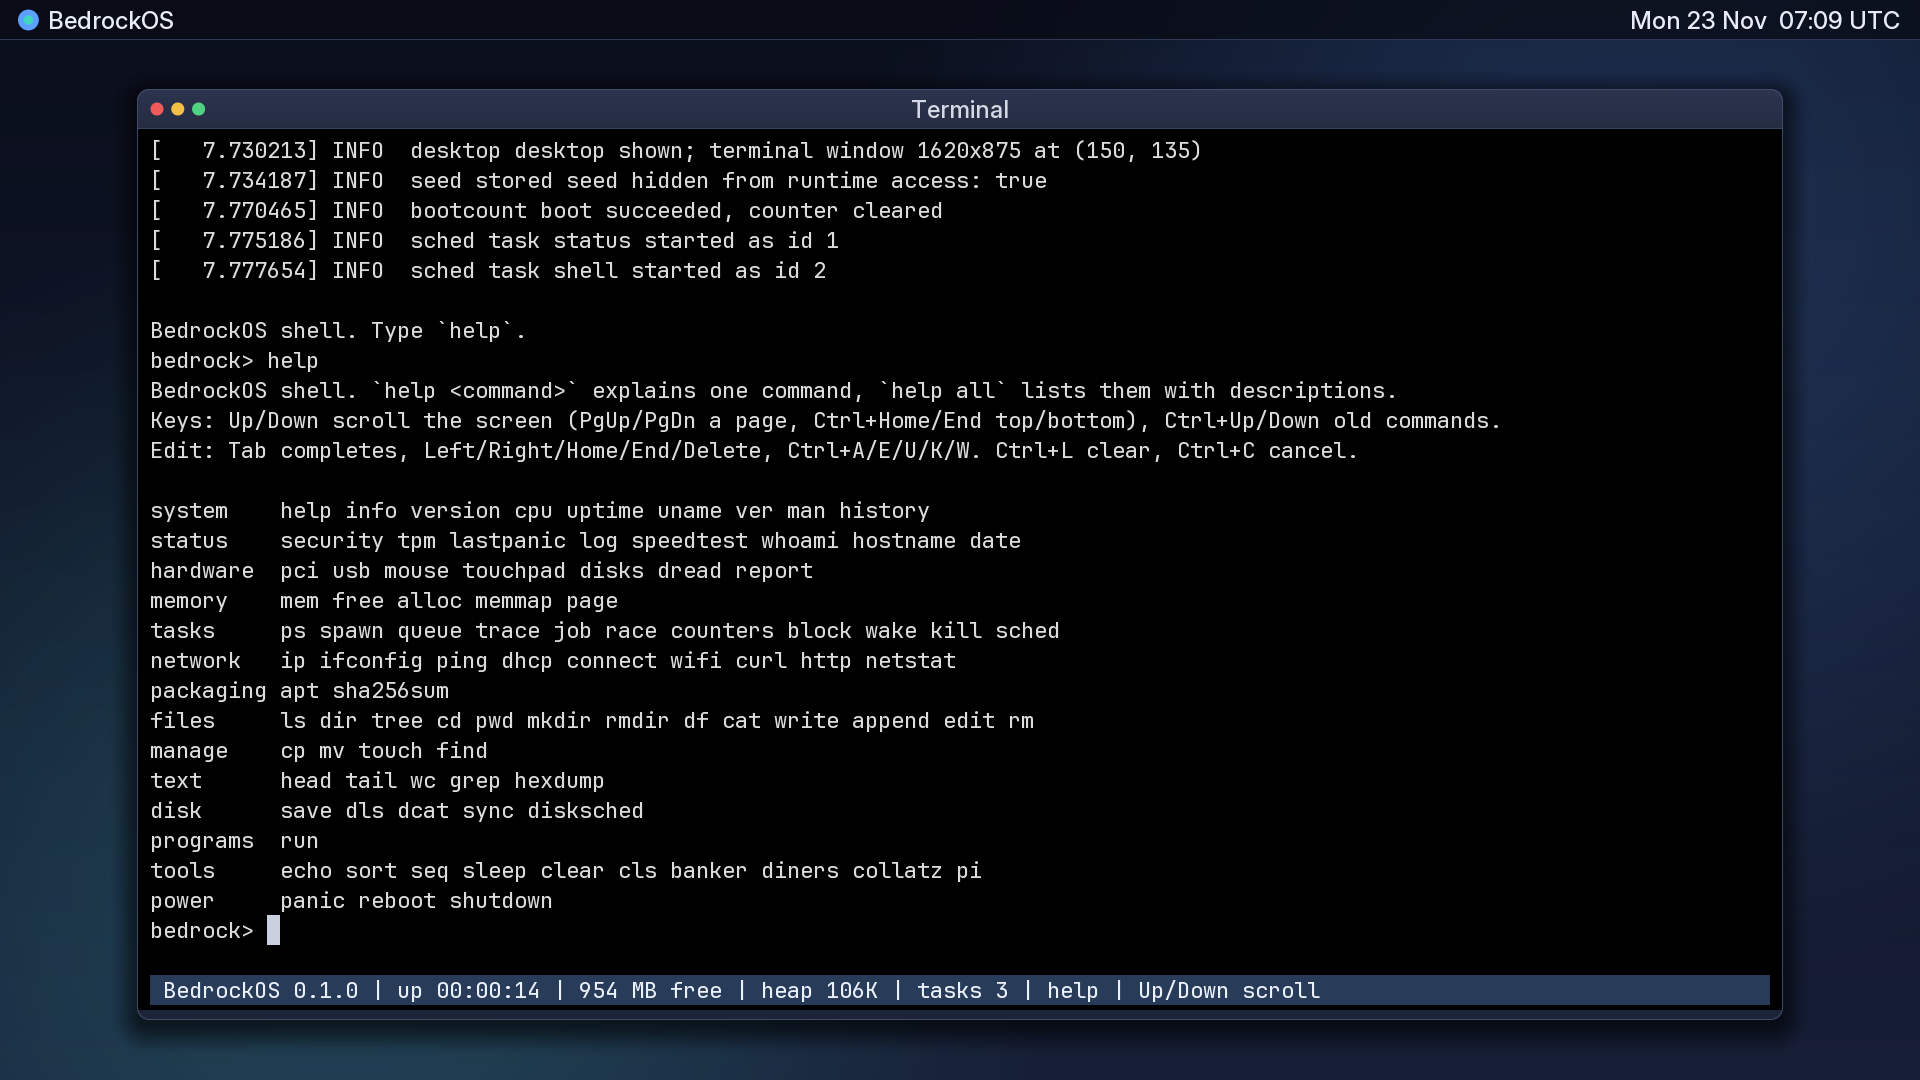
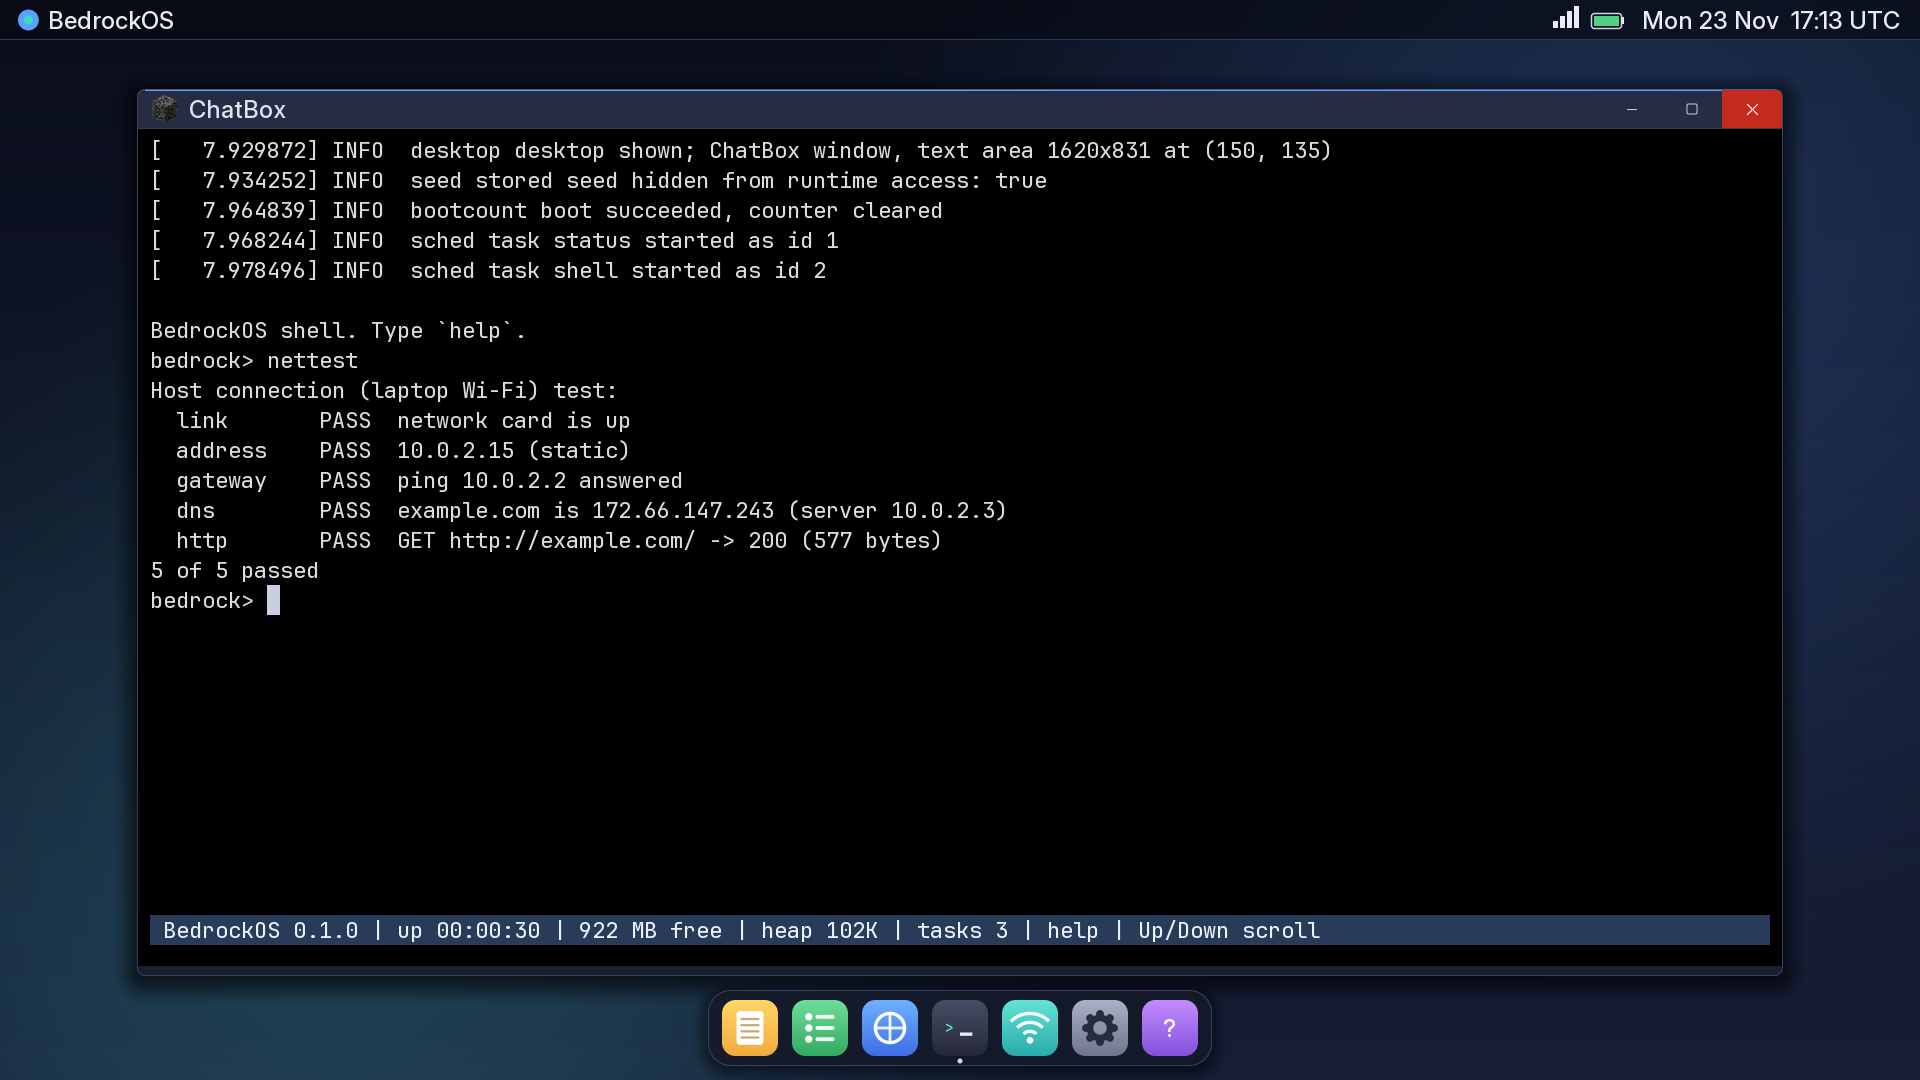
M10: docs for release 0.1.0 (README, STATUS, screenshots)

diff --git a/docs/STATUS.md b/docs/STATUS.md
@@ -11,11 +11,11 @@ Last update: 2026-11-23, milestone 3 (part 7: window manager, Notes, Tasks, Help
 | Feature | Status | How it was checked |
 |---|---|---|
 | One-command build (`cargo xtask build`): `.efi`, `out/usb/`, `.img`, `.vdi` | done | Run on Windows 11 with Rust 1.100, Python 3.14, VirtualBox 7.2.22 |
-| Disk image: GPT, FAT32 ESP + empty FAT32 `BRDATA` data partition | done | Booted by VirtualBox EFI; data partition not used by the OS yet |
+| Disk image: GPT, FAT32 ESP + empty FAT32 `BRDATA` data partition | done | Booted by VirtualBox EFI. The ESP is labelled `AEON` so the OS may write its saved files (AEONFS.BIN) there; `BRDATA` stays unused |
 | VirtualBox scripts (`scripts/vbox.ps1`, `.bat`, `.sh`) | done (Windows); `.sh` untested | `vbox.ps1` created the VM and booted it; `vbox.sh` written, not run (no Linux/macOS host here) |
 | Boot in VirtualBox to the shell, 1024x768 and 1920x1080 | done, untested on hardware | `tests/vbox_boot.py`: 10/10 checks (serial markers, no panic, screenshot size, non-blank) |
 | Screen mode: keep firmware's mode when it is ≥1024x720 | done | unit test + VirtualBox at both sizes (before: VirtualBox's 7680x4320 was chosen) |
-| Host unit tests | done | `cargo xtask test`: 731 passed, 3 ignored (preview image writers) |
+| Host unit tests | done | `cargo xtask test`: 735 passed, 3 ignored (preview image writers) |
 | Clippy `-D warnings` (UEFI build and host library) | done | `cargo xtask clippy` clean |
 | Kernel: paging W^X, LAPIC timer, preemptive scheduler, ring 3, fork/exec/pipes | inherited | boots in VirtualBox (`lapic timer ok hz=100`, scheduler tasks start) |
 | e1000 driver | inherited | bound in VirtualBox (`net bound Intel e1000 (8086:100e)`); DHCP not yet re-checked |
@@ -38,13 +38,30 @@ Last update: 2026-11-23, milestone 3 (part 7: window manager, Notes, Tasks, Help
 | ChatBox window (was "Terminal"): own title bar with the bedrock icon from `assets/bedrock.jpg` (converted by `tools/genicon.py`, background removed), name on the left, minimise / maximise / close on the right, small corner radius | done, untested on hardware | Host preview images and VirtualBox screenshot at 1920x1080; unit tests for the icon data and button positions |
 | Window manager + compositor: several windows (ChatBox, Notes, Tasks, Help), click to focus/raise, drag by title bar, close and minimise buttons, dock opens apps and shows open-app dots, Ctrl+T cycles windows; console draws off-screen and only changed rectangles are copied to the screen | done, partly checked | Unit tests (`wm`, `apps`, clipped redraw = full redraw); VirtualBox: boot test 10/10, Help opened from the dock and drawn under ChatBox. Notes/Tasks typing not yet checked in VirtualBox. No resize (maximise shows a message) |
 | Notes app (sidebar, editor, Ctrl+N/Ctrl+D, auto-save to /notes) and Tasks app (add, done, delete, progress, /tasks.txt), Help app (searches the shell command table) | done, unit-tested; VirtualBox only partly checked | Saved to the RAM file system and then to the USB stick if there is one; in VirtualBox there is no stick, so they are lost at power-off (the shell says so) |
-| Window manager: resize, focus, several windows, close/minimise buttons | not done (the minimise, maximise and close buttons are drawn but do nothing yet) | rest of milestone 3 |
+| Window manager: maximise / restore, focus, several windows, close / minimise | done for the apps; ChatBox keeps its size (its console has a fixed text grid) | unit test `maximise_and_restore`; the maximise button is wired in `bootfx::press` (clicking it was not injected in VirtualBox: the injected mouse only moves right/down there) |
 | USB mouse in VirtualBox | done | Fixed the inherited xHCI driver: VirtualBox's USB mouse stalls SET_PROTOCOL and SET_IDLE; endpoint 0 is now reset after a stall and the mouse is used anyway. Checked: `USB mouse ready` in the log; movement injected with the VirtualBox COM API (`PutMouseEvent`) arrives as reports and moves the pointer (`mouse` command and screenshot) |
 | Mouse pointer on the whole desktop | done | VirtualBox: movement injected with `PutMouseEvent`; screenshots show the pointer inside the Terminal window (drawn by the console) and on the top panel (drawn by the desktop), with nothing left behind when it crosses between them. Clicks are read but do nothing yet. Inherited glitch: a small pointer fragment can stay behind when text is drawn under the pointer |
 | VirtualBox USB tablet (absolute pointer, the VirtualBox default) | not done: no tablet driver, so the scripts set the VM to a USB mouse (click into the VM window to capture it, Right Ctrl releases) | — |
-| Apps: Notes, Tasks, Browser, Wi-Fi, Settings | not done | milestones 4–10 |
+| Apps: Notes, Tasks, Help, Settings | done | Settings: About, Network (live address, gateway, DNS), System (uptime, memory, task list refreshed every second), Display. VirtualBox: `open settings`, arrow keys to System, screenshot shows live tasks. Browser and Wi-Fi apps: milestones 8 and 9 (not done) |
 | Notes / tasks persistence | done in VirtualBox | Saved to the USB stick, or without one to the computer's own disk (AHCI write added; boot volume labelled AEON). Written twice (AEONFS.NEW then AEONFS.BIN) so a power cut leaves one whole copy. Checked: `task add`, `save`, VM reset, `task list` shows the task again |
 | Network manager, own Wi-Fi, simulated AP | not done | milestone 8 |
 | Wi-Fi chip drivers | not done: **no supported chip yet** | milestone 8 |
 | Browser, HTTPS | not done | milestone 9 |
 | Apps as ring-3 programs | not done: apps will run as kernel tasks first | — |
+
+## Added in this round (milestones 3–7 and 10, without 8 and 9)
+
+| Feature | Status | How it was checked |
+|---|---|---|
+| Command palette (Ctrl+Space): search apps and commands, Enter opens the app or types the command into ChatBox | done | unit test `palette_finds_apps_and_commands`; VirtualBox: Ctrl+Space, typed `net`, Down, Enter ran `nettest` in ChatBox |
+| Top bar: Wi-Fi bars (bright when the host connection is up) and battery (shown full: VirtualBox reports no battery) | done | VirtualBox screenshot |
+| Commands: `calc`, `neofetch`, `about`, `cmds`, `keys`, `open <app>`, `uuid`, `rand`, `fortune`, `base64`, `bench`, `todo-today`, `note`, `nettest` | done | unit tests for `calc`; each typed in VirtualBox, screenshots |
+| `nettest`: link, address, gateway ping, DNS, HTTP fetch as a pass/fail table | done | VirtualBox (NAT): 5 of 5 passed |
+| Pipes into text filters: `sort [-n] [-r]`, `uniq`, `head`, `tail`, `grep`, `rev`, `upper`, `lower` (and `wc` from /bin) | done | VirtualBox: `help \| grep calc \| upper`, `cmds \| wc`, `ls /bin \| wc` |
+| /bin programs (`hello`, `echo`, `cat`, `ls`, `wc`, `forktest`) | fixed | They crashed at start: the large code model puts code in `.ltext`, which the linker script left in the read-only segment. Script fixed, programs rebuilt. VirtualBox: all six run, `forktest` child exits 7 |
+| SSE registers kept across system calls | fixed | kernel code (desktop drawing) uses SSE; the syscall entry now saves and restores them with `fxsave` / `fxrstor` |
+| Notes: undo / redo (Ctrl+Z / Ctrl+Y), find (Ctrl+F), rename (Ctrl+R), copy / cut / paste line (Ctrl+C / X / V) | done | unit test `notes_undo_redo_find_rename_and_paste`; VirtualBox: Ctrl+F found a word |
+| Notes to and from `.txt` files: `note list`, `note export <title> <file>`, `note import <file> [title]` | done | VirtualBox: import, export, `cat` of the exported file |
+| System task manager | done (Settings > System) | VirtualBox screenshot |
+| Notes and tasks survive a reboot in VirtualBox | done | `task add`, `save`, VM reset, `task list` shows the task |
+| Skipped by request | — | light theme, Alt+key app shortcuts, task due dates / priorities / filters, Pomodoro timer, milestones 8 (Wi-Fi) and 9 (browser) |

diff --git a/README.md b/README.md
@@ -4,17 +4,47 @@ A small x86_64 UEFI operating system in Rust (`no_std`, no third-party crates in
 the Aeon 0.11.0 kernel. The goal: an animated boot, a graphical desktop with Notes, Tasks, a Browser, a
 Terminal, Wi-Fi and Settings apps, running by itself in VirtualBox and from a USB stick on real UEFI PCs.
 
-**Current state: milestone 3 of 10, first part.** It boots in VirtualBox with an animated boot screen and
-boot menu, then fades into a desktop with a top panel and a Terminal window running the shell. There is no
-window manager, mouse support on the desktop, or other apps yet. See
-[`docs/STATUS.md`](docs/STATUS.md) for exactly what is done and tested, and [`docs/PLAN.md`](docs/PLAN.md)
-for the design.
+**Current state: release 0.1.0: milestones 1–7 and 10 done; 8 (own Wi-Fi drivers) and 9 (browser) are
+not.** It boots in VirtualBox with an animated boot screen and boot menu, then fades into a desktop with:
+
+- a top bar with the clock and Wi-Fi and battery icons, and a dock to open apps;
+- windows you can move, focus, minimise, close and (apps) maximise, Ctrl+T switches between them;
+- **ChatBox**, the shell: more than 100 commands (`help`, `cmds`), pipes, redirects and /bin programs;
+- **Notes** (undo/redo, find, rename, line copy/paste, `.txt` import/export), **Tasks**, **Help**, and
+  **Settings** (about, network, live system and task view, display);
+- a **command palette** (Ctrl+Space) that opens apps or runs commands;
+- networking through the laptop's connection (`nettest` checks link, address, gateway, DNS and HTTP);
+- files, notes and tasks saved to the VM disk (or a USB stick), so they survive a reboot.
+
+See [`docs/STATUS.md`](docs/STATUS.md) for exactly what is done and how it was tested, and
+[`docs/PLAN.md`](docs/PLAN.md) for the design.
 
 ## Screenshots (VirtualBox, captured from real boots)
 
-Desktop with the shell in the Terminal window (1920x1080, `help` typed):
+Desktop with ChatBox (1920x1080, `nettest` run from the command palette):
 
 ![Desktop](docs/img/desktop-1920x1080.png)
+
+| Command palette (Ctrl+Space) | Settings: live system and task view |
+|---|---|
+| ![Palette](docs/img/palette-1920x1080.png) | ![Settings](docs/img/settings-1920x1080.png) |
+
+Notes with find (Ctrl+F) next to ChatBox:
+
+![Notes](docs/img/notes-1920x1080.png)
+
+## Using it
+
+| Keys | What they do |
+|---|---|
+| Ctrl+Space | command palette: type, Up/Down, Enter; Esc closes |
+| Ctrl+T | next window |
+| ChatBox | Tab completes, Ctrl+Up/Down history, Up/Down/PgUp/PgDn scroll, Ctrl+L clear, Ctrl+C cancel |
+| Notes | Ctrl+N new, Ctrl+D delete, Ctrl+R rename, Ctrl+F find, Ctrl+Z/Y undo/redo, Ctrl+C/X/V line, Ctrl+Up/Down switch note |
+| Tasks | type + Enter adds, Down selects, Space done, Delete removes |
+
+Useful commands: `help`, `cmds`, `keys`, `open <app>`, `nettest`, `neofetch`, `calc (2+3)*4`, `task add <text>`,
+`note list`, `help | grep net`.
 
 | Boot menu with countdown (1920x1080) | Boot progress driven by real stages (1920x1080) |
 |---|---|
